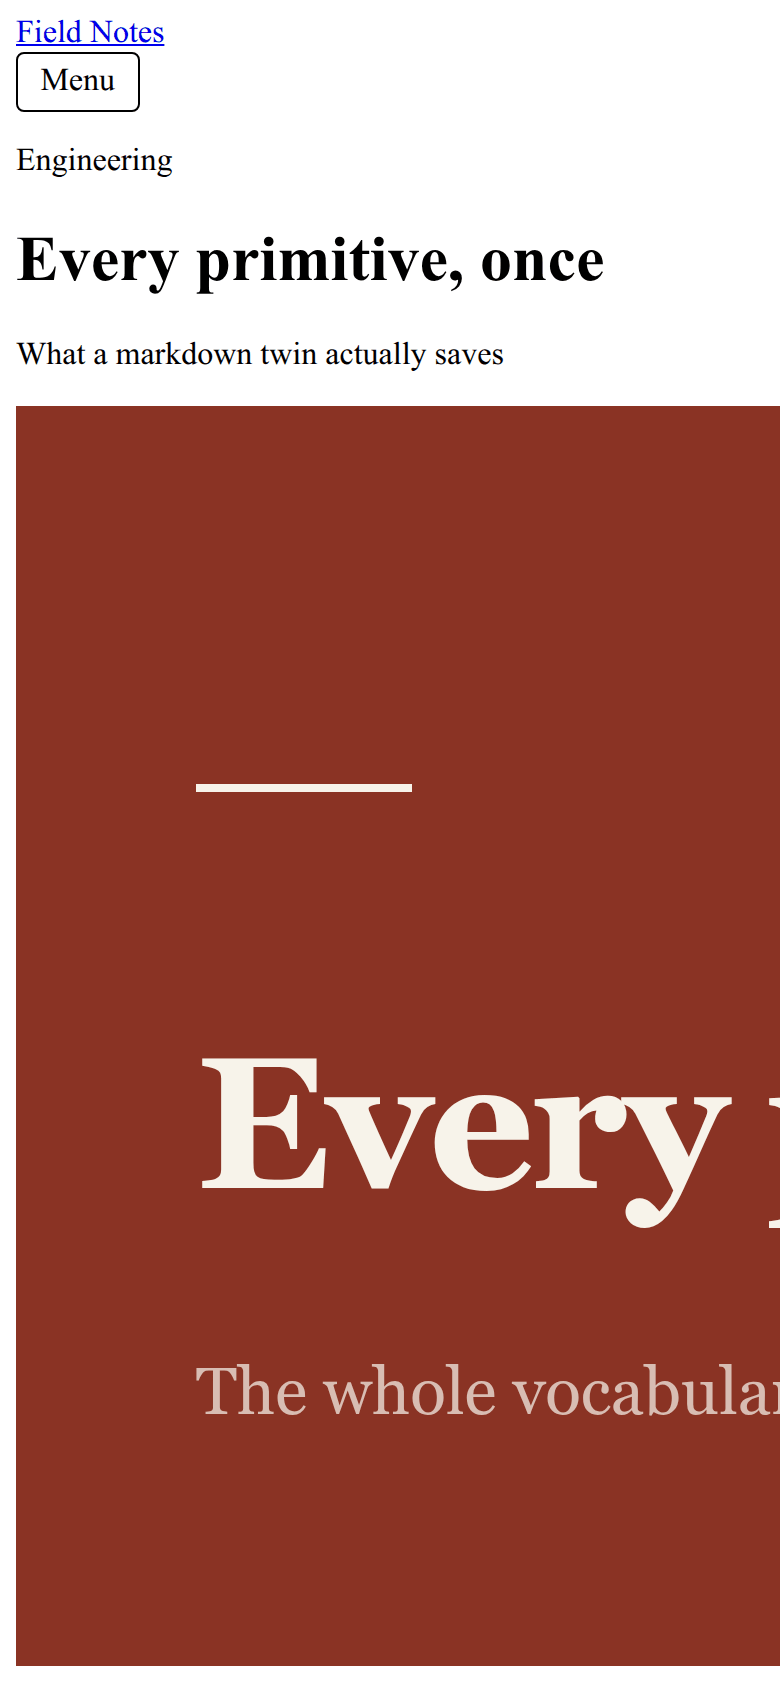
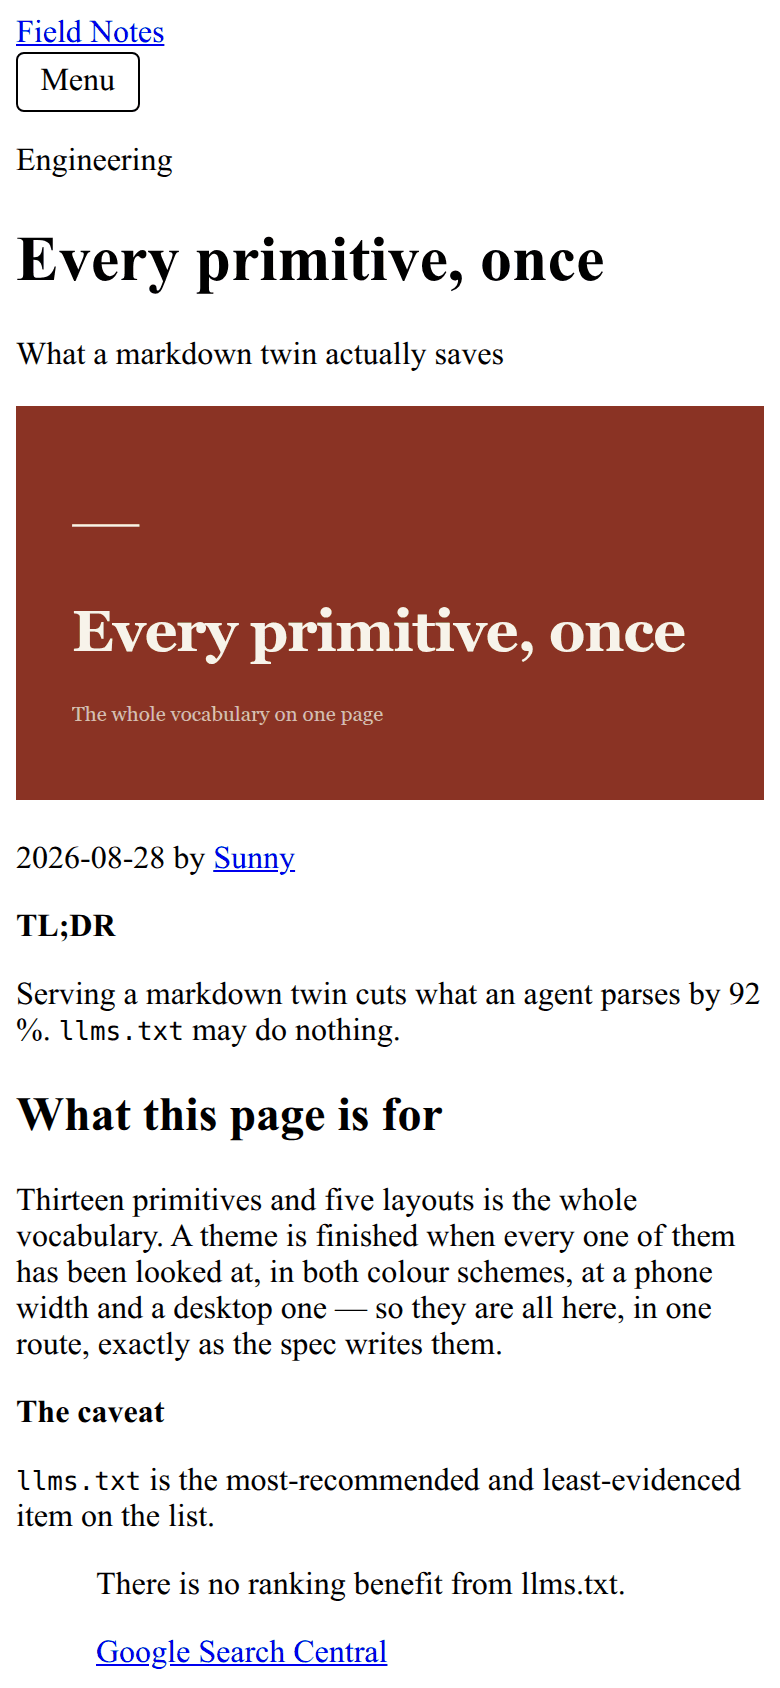
R1: the terminal still, the phone strip, and a picture that fits its column
check-theme.png is vhs over the compiled binary from a site directory (17
rules, the contrast columns); strip.py arranges the six phones on one ground.
The base phone showed the finding: a 1200 px cover was 1200 px on a 390 px
phone, so base's behaviour sheet gains one line — img, svg, video are never
wider than their column. Barrel regenerated.

diff --git a/themes/base/theme.css b/themes/base/theme.css
@@ -15,6 +15,12 @@
    `nav ul { display: flex }` a theme wrote for the desktop". A theme that wants a different phone menu
    overrides the header part. */
 
+/* ── A picture is never wider than its column (R1, docs/15). A `cover` or `figure` carries its intrinsic
+   `width`/`height` so the browser reserves the box before the bytes arrive (media.ts), and without this
+   line a 1200 px cover is 1200 px on a 390 px phone and the whole page scrolls sideways. `height: auto`
+   keeps the ratio the attributes declared. The lightbox sets its own bounds below. */
+img, svg, video { max-width: 100%; height: auto; }
+
 /* ── The header menu on a phone (docs/14 §4.6). Below 34rem the `<ul popover>` is a sheet the button
    opens; above it the popover's user-agent styling is taken back off and the list is in flow, and the
    button is gone. `popover` alone would have hidden the menu everywhere until pressed. */

diff --git a/packages/core/src/bundled.ts b/packages/core/src/bundled.ts
@@ -31,7 +31,7 @@ export interface BundledTheme {
 
 export const BUNDLED: Readonly<Record<string, BundledTheme>> = {
   "base": {
-    hash: "1611595bce63087852ba6190dc56ffafb012667a",
+    hash: "6e457b0097ddb521bd096319dde957c7053cb0ab",
     files: {
       "theme.css": _base_theme_css,
       "theme.yaml": _base_theme_yaml,

diff --git a/packages/bench/readme/strip.py b/packages/bench/readme/strip.py
@@ -1,0 +1,31 @@
+"""
+The phone strip (docs/15 §3.2): six looks at 390 px, side by side on one ground, rounded like a phone
+would be — `python3 packages/bench/readme/strip.py` → .github/readme/phones/strip.png. Order is the
+shelf's: editorial's three, base, technical's two. The frames are the ones `shots.ts` made; this only
+arranges them.
+"""
+import io, os
+from PIL import Image, ImageDraw
+import oxipng
+
+DIR = ".github/readme/phones"
+ORDER = ["editorial-paper", "editorial-ink", "editorial-broadsheet", "base", "technical-graphite", "technical-phosphor"]
+GAP, PAD, RADIUS, SCALE = 36, 40, 44, 0.5
+BG = (0xf7, 0xf3, 0xea)
+
+frames = [Image.open(os.path.join(DIR, f"{slug}.png")).convert("RGB") for slug in ORDER]
+frames = [f.resize((round(f.width * SCALE), round(f.height * SCALE)), Image.Resampling.LANCZOS) for f in frames]
+w = sum(f.width for f in frames) + GAP * (len(frames) - 1) + PAD * 2
+h = max(f.height for f in frames) + PAD * 2
+strip = Image.new("RGB", (w, h), BG)
+x = PAD
+for f in frames:
+    mask = Image.new("L", f.size, 0)
+    ImageDraw.Draw(mask).rounded_rectangle((0, 0, f.width - 1, f.height - 1), radius=round(RADIUS * SCALE), fill=255)
+    strip.paste(f, (x, PAD), mask)
+    x += f.width + GAP
+q = strip.quantize(colors=256, method=Image.Quantize.MEDIANCUT, dither=Image.Dither.NONE)
+buf = io.BytesIO(); q.save(buf, "PNG", optimize=True)
+out = os.path.join(DIR, "strip.png")
+with open(out, "wb") as fh: fh.write(oxipng.optimize_from_memory(buf.getvalue(), level=4))
+print(f"{out}  {w}×{h}  {os.path.getsize(out) // 1024} KB")
